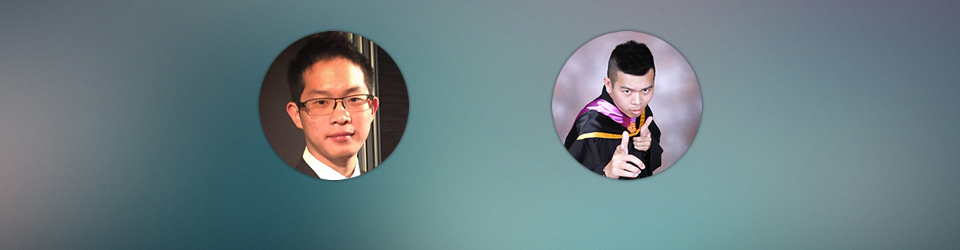
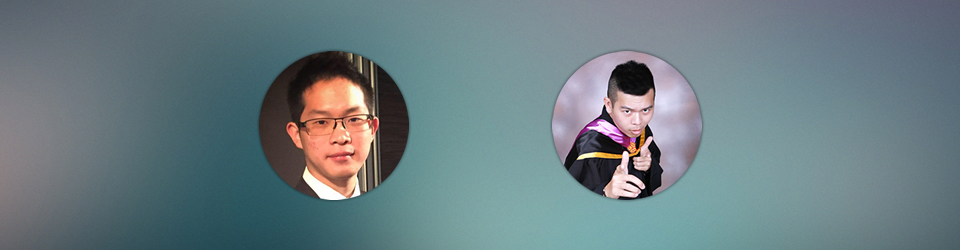
bird 50%

Changed region(s): [[0.5625, 0.112, 0.75, 0.812], [0.25, 0.112, 0.4375, 0.812]]

diff --git a/bird.html b/bird.html
@@ -1,0 +1,202 @@
+<!DOCTYPE html>
+<html>
+<head>
+  <!-- Standard Meta -->
+  <meta charset="utf-8" />
+  <meta http-equiv="X-UA-Compatible" content="IE=edge,chrome=1" />
+  <meta name="viewport" content="width=device-width, initial-scale=1.0, maximum-scale=1.0">
+
+  <!-- Site Properities -->
+  <title>Unnamed Studio</title>
+  <link rel="stylesheet" type="text/css" href="assets/semantic.css">
+  <link rel="stylesheet" type="text/css" href="assets/style.css">
+
+  <script src="assets/library/jquery.min.js"></script>
+  <script src="assets/semantic.js"></script>
+
+</head>
+<body>
+
+<div class="ui two column stackable grid">
+<!--   <div class="column">
+    <div class="ui segment">Content</div>
+  </div>
+  <div class="column">
+    <div class="ui segment">Content</div>
+  </div>
+  <div class="three column row">
+    <div class="column">
+      <div class="ui segment">Content</div>
+    </div>
+    <div class="column">
+      <div class="ui segment">Content</div>
+    </div>
+    <div class="column">
+      <div class="ui segment">Content</div>
+    </div>
+  </div> -->
+  <div class="four wide column">
+    <div class="segment left-logo">
+      <a href="index.html"><img src="assets/images/logo.png"></a>
+      <p>Your Full-Stack assistant</p>
+      <p>cch@unnamed.taipei</p>
+      <p>Coming Soon</p>
+    </div>
+  </div>
+
+  <div class="twelve wide column ui main text container">
+    <br>
+
+    <!--Header-->
+    <h1 class="ui header">Wei-Yi Chiu</h1>
+    <p>你好，我是丘爲屹。一個熱愛寫程式的孩子，同時也是個果粉。</p>
+    <div class="ui leaderboard test ad bird" data-text=""></div>
+
+    <!--Introduction-->
+    <div class="ui two column stackable grid">
+      <div class="eight wide column ">
+        <p class="person_description">最喜歡RoR，最愛寫iOS，最想要用自己的技能改變生活！
+一年前，為了和朋友聊天不用再算時差，晚上12點打開電腦寫了一隻app改善這個問題；
+兩年前，為了不要再接到垃圾電話，自己寫了一隻類似whoscall的app。
+改善生活，就是我寫程式的動力。</p>
+      </div>
+      <div class="eight wide column ui list">
+        <div class="item">
+          <i class="users icon"></i>
+          <div class="content">
+            後端屁孩
+          </div>
+        </div>
+        <div class="item">
+          <i class="marker icon"></i>
+          <div class="content">
+            Taipei,Taiwan
+          </div>
+        </div>
+        <div class="item">
+          <i class="mail icon"></i>
+          <div class="content">
+            <a>bird(at)unnamed.taipei</a>
+          </div>
+        </div>
+        <div class="item">
+          <i class="github icon"></i>
+          <div class="content">
+            <a href="https://github.com/bird1204" target="_blank">Github</a>
+          </div>
+        </div>
+        <div class="item">
+          <i class="linkedin icon"></i>
+          <div class="content">
+            <a href="https://www.linkedin.com/in/wei-yi-chiu-85b048104" target="_blank">Linkedin</a>
+          </div>
+        </div>
+      </div>
+    </div>
+
+    <!--Project-->
+    <div class="ui top attached tabular menu">
+      <div class="item"><h3>Project</h3></div>
+      <div class="item">我曾參與過的案子</div>
+    </div>
+    <br>
+    <div class="ui link cards">
+      <div class="card">
+        <div class="image">
+          <img src="assets/images/work/badboss.jpg">
+        </div>
+        <div class="content">
+          <div class="header"><a href="http://www.badboss.taipei" target="_blank">Badboss</a></div>
+          <div class="meta">
+            <a>Website</a>
+          </div>
+          <div class="description">
+            Find illegal boss in taiwan.
+          </div>
+        </div>
+        <div class="extra content">
+          <span class="right floated">
+            2015.12
+          </span>
+          <span>
+            <i class="tag icon"></i>
+            ROR,爬蟲
+          </span>
+        </div>
+      </div>
+
+      <div class="card">
+        <div class="image">
+          <img src="assets/images/work/takeit.jpg">
+        </div>
+        <div class="content">
+          <div class="header"><a href="https://github.com/bird1204/XpendAllForiOS" target="_blank">Take it</a></div>
+          <div class="meta">
+            <a>iOS APP</a>
+          </div>
+          <div class="description">
+            Provide homeless meals and related services
+          </div>
+        </div>
+        <div class="extra content">
+          <span class="right floated">
+            2013.10
+          </span>
+          <span>
+            <i class="tag icon"></i>
+            iOS主程式
+          </span>
+        </div>
+      </div>
+
+      <div class="card">
+        <div class="image">
+          <img src="assets/images/work/maofa.png">
+        </div>
+        <div class="content">
+          <div class="header"><a href="" target="_blank">茂發花果園</a></div>
+          <div class="meta">
+            <a>Website</a>
+          </div>
+          <div class="description">
+            茂發花果園產品介紹(coming soon)
+          </div>
+        </div>
+        <div class="extra content">
+          <span class="right floated">
+            2015.11
+          </span>
+          <span>
+            <i class="tag icon"></i>
+            ROR,Activeadmin,Activeadmin-手機版
+          </span>
+        </div>
+      </div>
+
+    </div>
+
+
+
+  </div>
+</div>
+
+
+<!-- Content JS HERE !-->
+<style>
+  .last.container {
+    margin-bottom: 300px !important;
+  }
+  h1.ui.center.header {
+    margin-top: 3em;
+  }
+  h2.ui.center.header {
+    margin: 4em 0em 2em;
+  }
+  h3.ui.center.header {
+    margin-top: 2em;
+    padding: 2em 0em;
+  }
+</style>
+
+</body>
+</html>

diff --git a/assets/style.css b/assets/style.css
@@ -9,6 +9,7 @@ body{
 .left-logo p{
 	text-align: left;
 	margin-left:70px;
+	font-family: Lato,'Helvetica Neue',Arial,Helvetica,sans-serif;
 }
 
 .right-content-index{
@@ -23,18 +24,34 @@ body{
 
 .right-content-index .people{
 	background-image: url('images/asskid1.jpg');
+	background-position:center center;
 }
 
 .right-content-index .profolio{
 	background-image: url('images/asskid2.jpg');
+	background-position:center center;
 }
 
 .right-content-index .contact{
 	background-image: url('images/asskid3.jpg');
+	background-position:center center;
 }
 
 .ui.move.reveal{
 	height: calc(100vh / 3);
+}
+
+.ui.leaderboard.bird{
+	background-image: url('images/bird_header.jpg');
+	background-position:center center;
+	background-repeat: no-repeat;
+	background-size:cover;
+	overflow: hidden;
+	width: 100%;
+}
+
+p.person_description{
+	margin: 10px 0;
 }
 
 .right-content-index h1{
